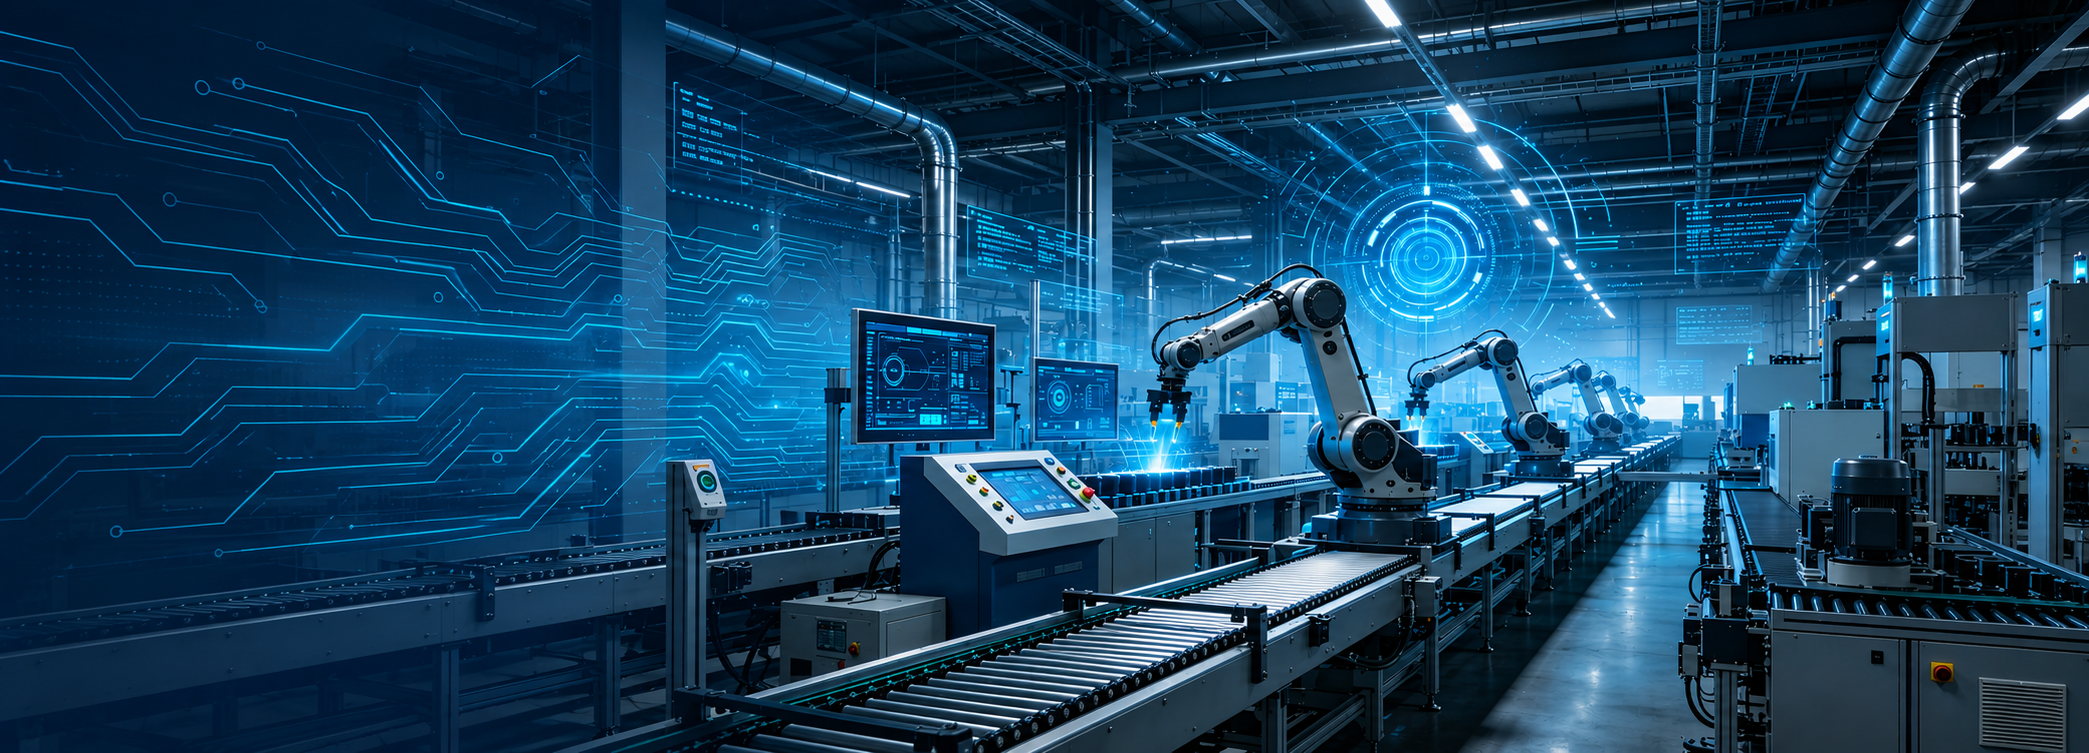
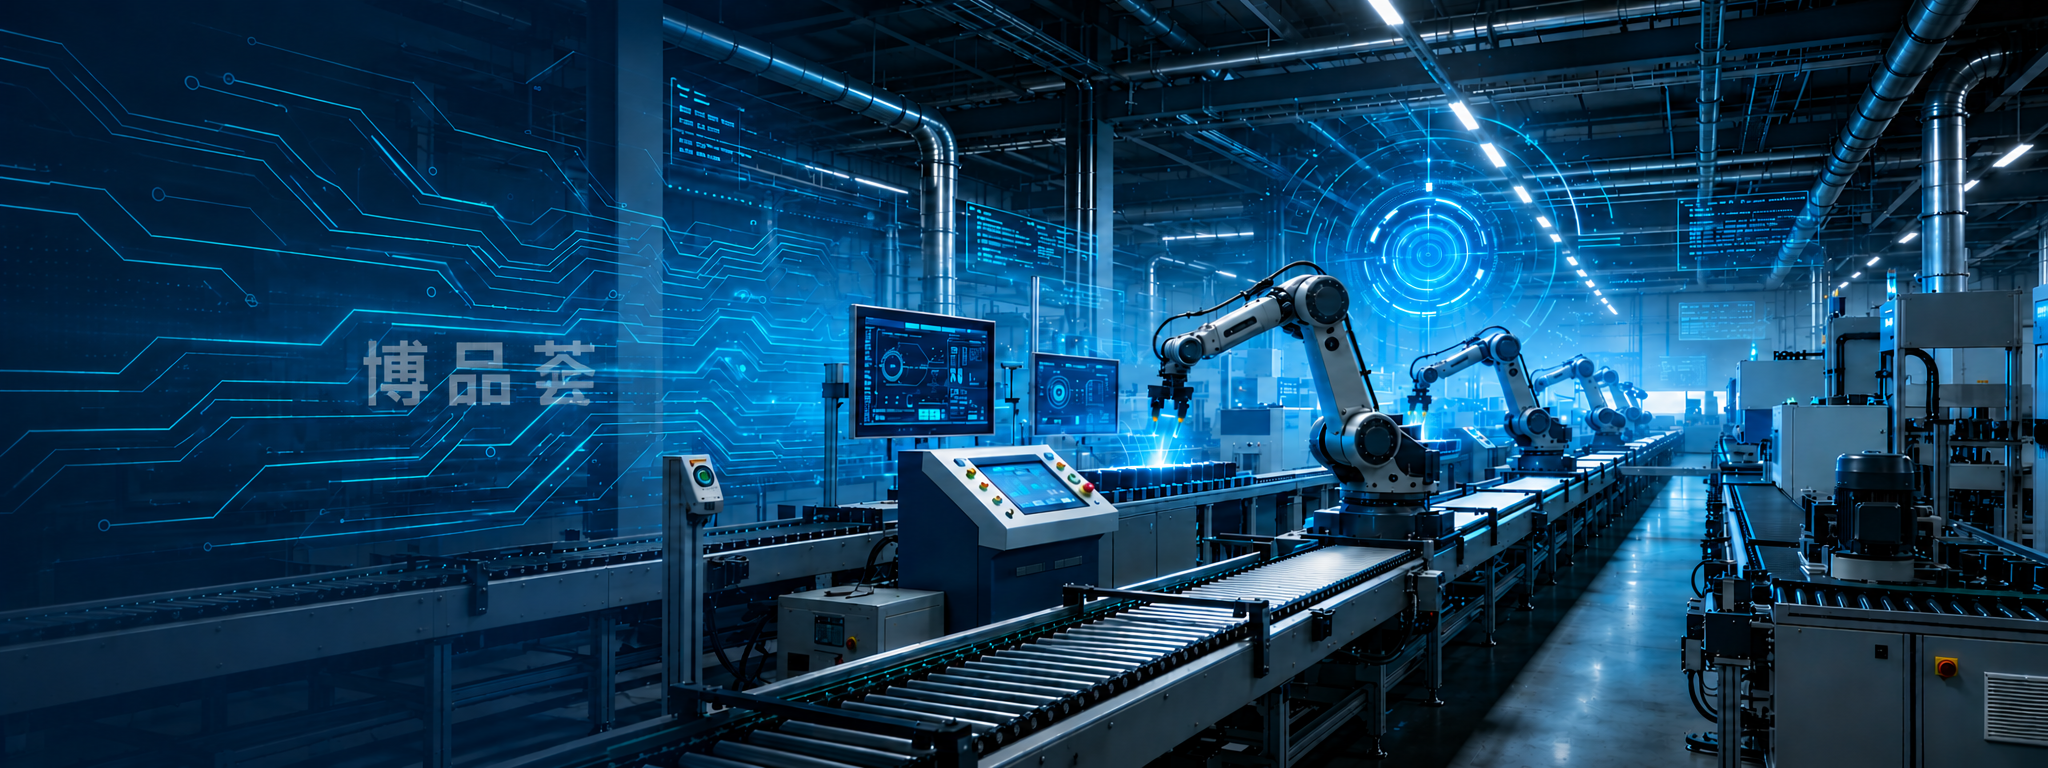
Refine homepage layout and business styling

diff --git a/components/v1/V1CompanyTile.tsx b/components/v1/V1CompanyTile.tsx
@@ -2,7 +2,7 @@
 import { MapPin } from 'lucide-react'
 import { getCompanyCategory, type V1Company } from '@/lib/v1-data'
 
-export function V1CompanyTile({ company }: { company: V1Company }) {
+export function V1CompanyTile({ company, compact = false }: { company: V1Company; compact?: boolean }) {
   const category = getCompanyCategory(company)
   const image = company.images[0] || category?.image || '/companies-network.png'
 
@@ -12,15 +12,15 @@ export function V1CompanyTile({ company }: { company: V1Company }) {
         <div className="relative aspect-[4/3] overflow-hidden bg-muted">
           <img src={image} alt="" className="h-full w-full object-cover transition duration-500 group-hover:scale-105" />
         </div>
-        <div className="p-4">
-          <h3 className="line-clamp-2 min-h-12 text-base font-bold leading-6 text-foreground group-hover:text-primary">
+        <div className={compact ? 'px-4 py-0' : 'p-4'}>
+          <h3 className={`line-clamp-2 ${compact ? 'min-h-7' : 'min-h-12'} text-base font-bold leading-6 text-foreground group-hover:text-primary`}>
             {company.name}
           </h3>
-          <p className="mt-2 flex items-center gap-1 text-xs text-muted-foreground">
+          <p className={`${compact ? 'mt-1' : 'mt-2'} flex items-center gap-1 text-xs text-muted-foreground`}>
             <MapPin className="size-3.5" />
             {company.province} · {company.city}
           </p>
-          <div className="mt-3 flex flex-wrap gap-1.5">
+          <div className={`${compact ? 'mt-2' : 'mt-3'} flex flex-wrap gap-1.5`}>
             {company.businessTags.slice(0, 2).map((tag) => (
               <span key={tag} className="rounded-md bg-muted px-2 py-1 text-xs text-muted-foreground" style={{ borderRadius: 'calc(var(--v1-card-radius) * 0.7)' }}>{tag}</span>
             ))}

diff --git a/components/v1/V1CategoryShowcase.tsx b/components/v1/V1CategoryShowcase.tsx
@@ -11,9 +11,9 @@ export function V1CategoryShowcase({ categories }: { categories: V1Category[] })
   if (!categories.length) return null
 
   return (
-    <section id="categories" className="v1-industrial-grid scroll-mt-24 bg-card py-10 md:py-12">
+    <section id="categories" className="v1-industrial-grid scroll-mt-24 bg-card pb-[30px] pt-0 md:pb-[38px] md:pt-2">
       <div className="mx-auto max-w-[1200px] px-4 md:px-0">
-        <div className="space-y-10">
+        <div className="space-y-5">
           {categories.map((category) => (
             <CategoryRail key={category.id} category={category} />
           ))}
@@ -55,7 +55,7 @@ function CategoryRail({ category }: { category: V1Category }) {
       <div ref={scrollerRef} className="flex snap-x gap-5 overflow-x-auto scroll-smooth pb-3 [scrollbar-width:none] [&::-webkit-scrollbar]:hidden">
         {companies.map((company) => (
           <div key={company.id} className="min-w-[82%] snap-start sm:min-w-[46%] md:min-w-[30%] lg:min-w-[calc((100%_-_80px)/5)]">
-            <V1CompanyTile company={company} />
+            <V1CompanyTile company={company} compact />
           </div>
         ))}
       </div>

diff --git a/components/v1/V1HomePage.tsx b/components/v1/V1HomePage.tsx
@@ -28,7 +28,7 @@ export function V1HomePage() {
         <img src="/hero-banner-new.png" alt="友军博品产业资源对接平台" className="h-auto w-full object-contain" />
       </section>
 
-      <section id="demands" className="scroll-mt-24 border-y border-border/30 bg-card py-10 md:py-12">
+      <section id="demands" className="scroll-mt-24 border-y border-border/30 bg-card pb-[10px] pt-[10px] md:pb-[18px] md:pt-[18px]">
         <div className="mx-auto max-w-[1200px] px-4 md:px-0">
           <div className="mb-7 flex flex-col gap-3 sm:flex-row sm:items-end sm:justify-between">
             <div>
@@ -75,7 +75,7 @@ export function V1HomePage() {
       <V1CategoryShowcase categories={categories} />
       <V1WhyChooseSection />
 
-      <section id="news" className="bg-card py-10 md:py-12">
+      <section id="news" className="bg-card pb-[30px] pt-0 md:pb-[38px] md:pt-2">
         <div className="mx-auto max-w-[1200px] px-4 md:px-0">
           <div className="flex items-end justify-between gap-4">
             <div><h2 className="text-2xl font-bold text-foreground">行业资讯</h2></div>

diff --git a/components/v1/V1ThemeProvider.tsx b/components/v1/V1ThemeProvider.tsx
@@ -24,8 +24,8 @@ export function V1ThemeProvider({ children }: { children: React.ReactNode }) {
           --input: #f9fafb;
           --ring: #1e40af;
           --radius: 0.25rem;
-          --v1-header-bg: linear-gradient(180deg, rgba(255,255,255,0.98), rgba(249,250,251,0.98));
-          --v1-footer-bg: linear-gradient(180deg, #ffffff, #f9fafb);
+          --v1-header-bg: #f3f4f6;
+          --v1-footer-bg: #f3f4f6;
           --v1-footer-foreground: #111827;
           --v1-section-bg: #f9fafb;
           --v1-button-bg: linear-gradient(90deg, #60a5fa, #ff6b6b);

diff --git a/components/v1/V1WhyChooseSection.tsx b/components/v1/V1WhyChooseSection.tsx
@@ -14,7 +14,7 @@ export function V1WhyChooseSection() {
   const [hoveredIndex, setHoveredIndex] = useState<number | null>(null)
 
   return (
-    <section className="bg-card py-10 md:py-12">
+    <section className="bg-card py-[30px] md:py-[38px]">
       <div className="mx-auto max-w-[1200px] px-4 md:px-0">
         <div className="mb-8 text-center">
           <h2 className="text-2xl font-bold text-foreground">让产业资源更容易被找到</h2>

diff --git a/components/v1/V1BannerCarousel.tsx b/components/v1/V1BannerCarousel.tsx
@@ -22,7 +22,7 @@ export function V1BannerCarousel() {
 
   return (
     <section className="group relative overflow-hidden bg-card" aria-label="首页横幅">
-      <div className="relative aspect-[3/1] min-h-44 w-full overflow-hidden sm:min-h-56">
+      <div className="relative h-[280px] w-full overflow-hidden">
         {slides.map((slide, index) => (
           <img
             key={slide.src}
